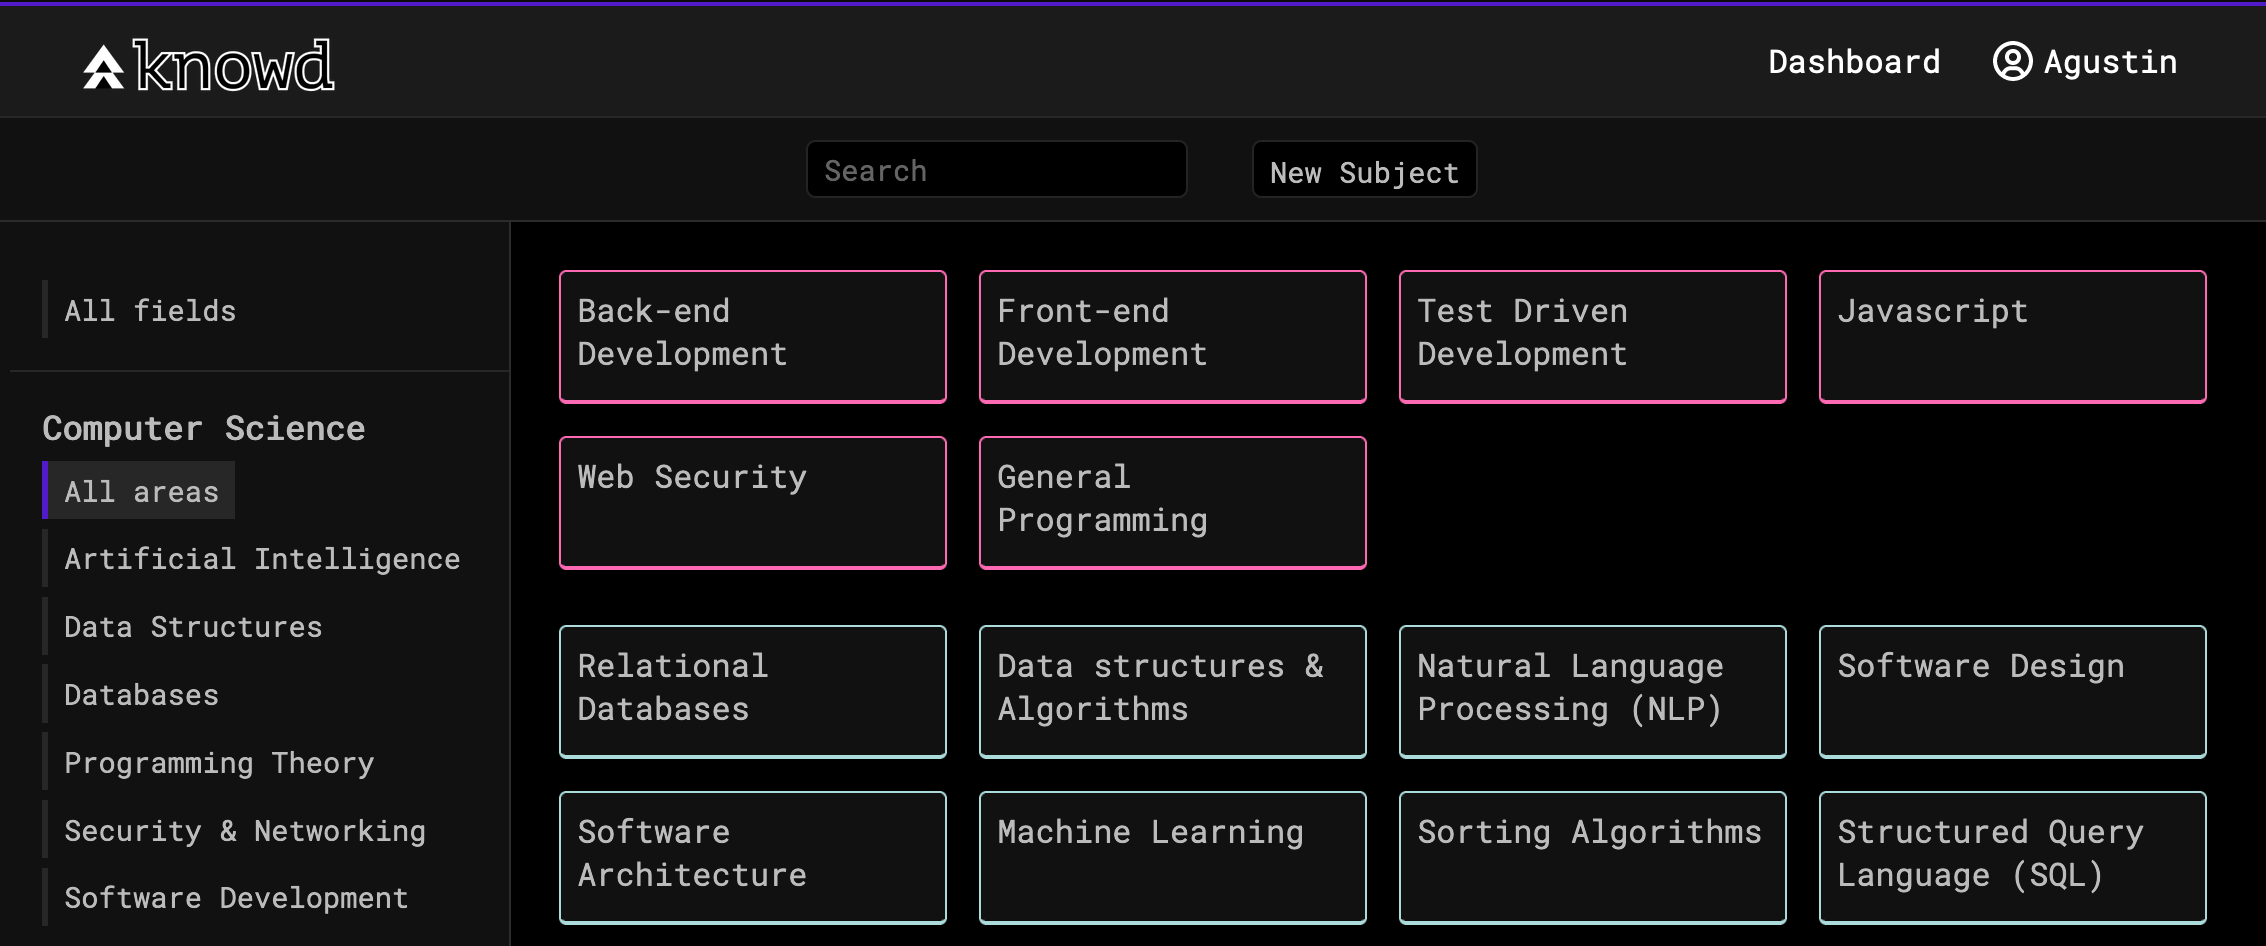
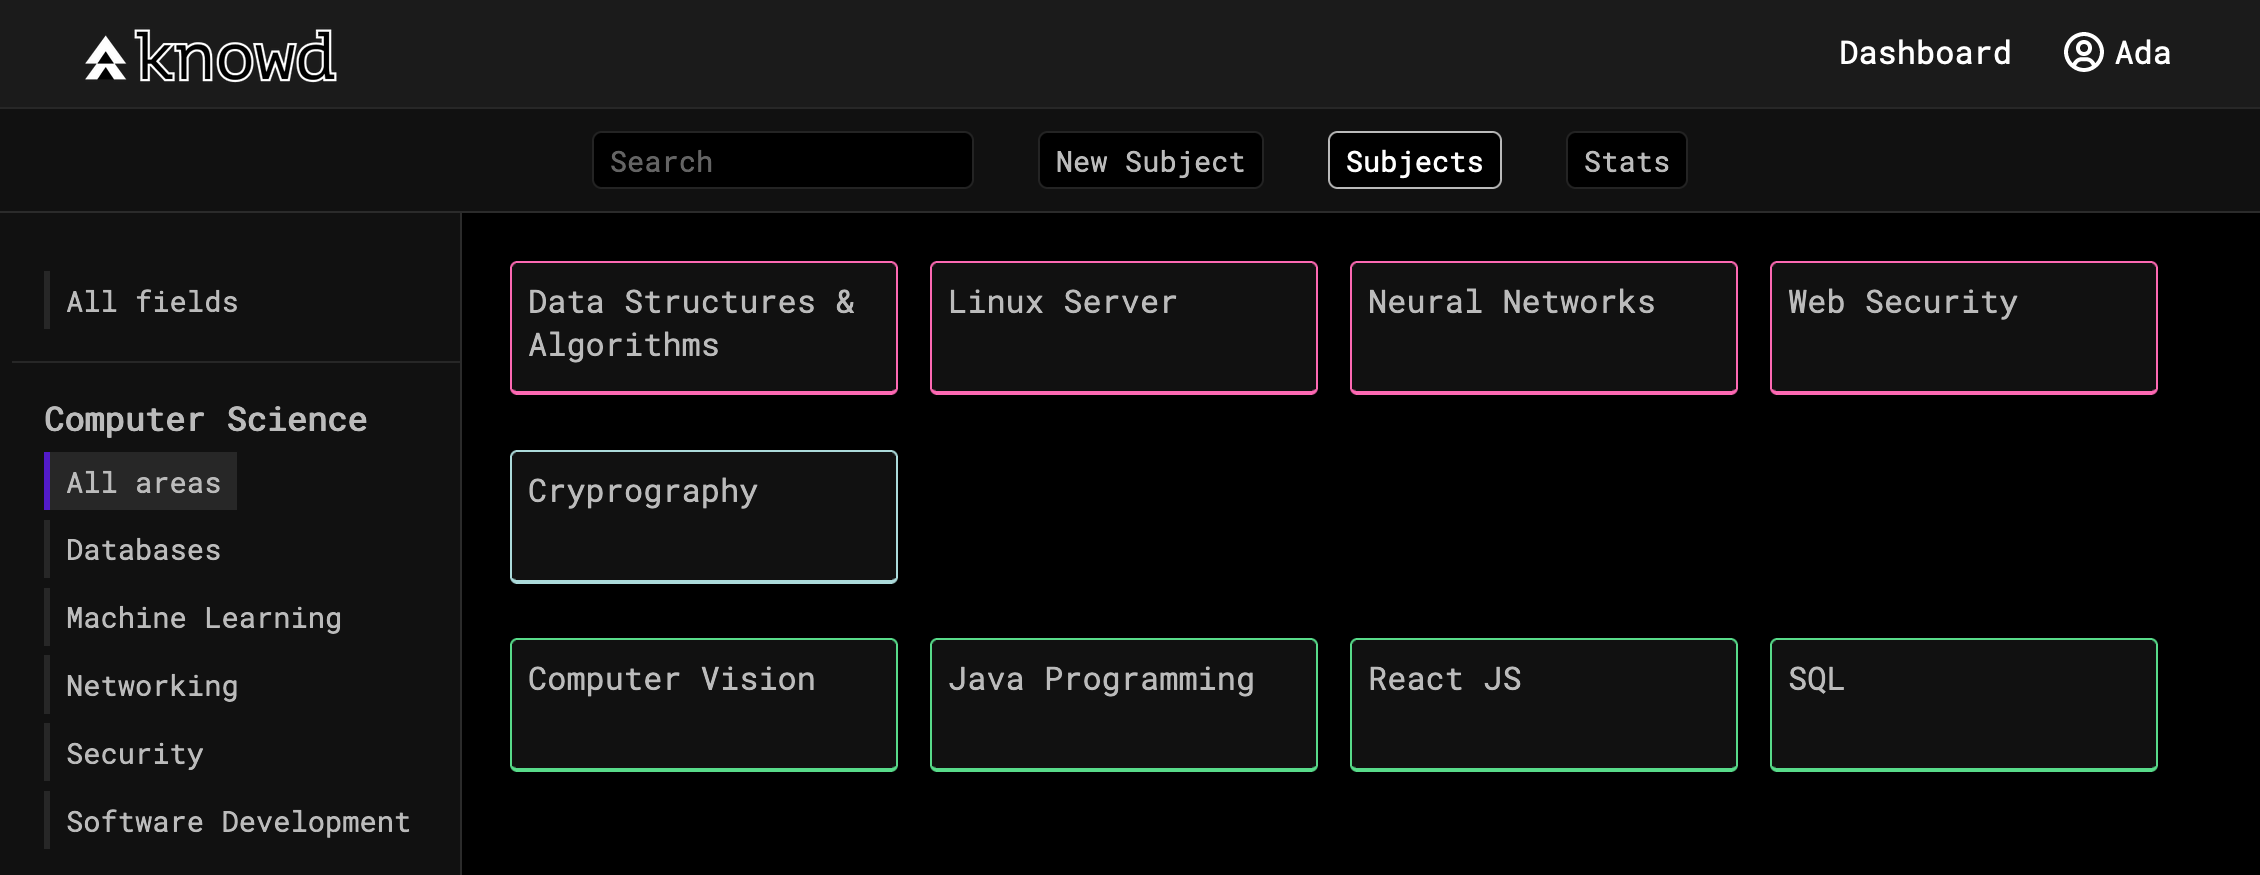
added charts

diff --git a/src/components/Dashboard/Stats.js b/src/components/Dashboard/Stats.js
@@ -1,4 +1,4 @@
-import { PieChart, Pie, LabelList, Cell } from 'recharts';
+import { PieChart, Pie, LabelList, Cell, RadarChart, PolarGrid, PolarAngleAxis, PolarRadiusAxis, Radar, Legend } from 'recharts';
 import styles from "../../styles/Stats.module.scss";
 
 const Stats = (props) => {
@@ -7,66 +7,52 @@ const Stats = (props) => {
 		const fa = a.value;
 		const fb = b.value;
 		
-		if (fa < fb) return -1;
-		else if (fa > fb) return 1;
+		if (fa < fb) return 1;
+		else if (fa > fb) return -1;
 		else return 0;
 	}
 
 	const statsByAllFields = [];
 	props.fields.forEach(fieldObject => {
-		const values = props.subjects.filter(subject => (subject.field === fieldObject.field && subject.status !== "Wish")).length;
-		values > 0 &&
-			statsByAllFields.push( {
-				name: fieldObject.field,
-				value: values
+		statsByAllFields.push( {
+			name: fieldObject.field,
+			valueL: props.subjects.filter(subject => subject.field === fieldObject.field && subject.status === "Learning").length,
+			valueM: props.subjects.filter(subject => subject.field === fieldObject.field && subject.status === "Mastered").length,
+			valueW: props.subjects.filter(subject => subject.field === fieldObject.field && subject.status === "Wish").length
 			})
-	})
+	});
+
 	const sortedStatsByAllFields = statsByAllFields.sort(sortByHighestValue);
 
-	const COLORS = ['#8B0000', '#228B22', '#FFA500', '#40E0D0', '#FFFF00', '#DC143C', '#8B4513', '#DA70D6', '#00BFFF', '#F0E68C', '#32CD32', '#008080', '#7B68EE', '#9932CC', '#DEB887', '#800000', '#4B0082', '#00BFFF', '#808000', '#FF7F50', '#3CB371' ];
+	const COLORS = ['#E20000', '#228B22', '#FFA500', '#40E0D0', '#FFFF00', '#DC143C', '#8B4513', '#DA70D6', '#00BFFF', '#F0E68C', '#32CD32', '#008080', '#7B68EE', '#9932CC', '#DEB887', '#800000', '#4B0082', '#00BFFF', '#808000', '#FF7F50', '#3CB371' ];
 
 	const statsByAreas = [];
-	props.fields.forEach(fieldObject => {
-		const data = fieldObject.areas.map(area => ({
-			name: area.area,
-			value: props.subjects.filter(subject => subject.area === area.area).length
-		}));
-
-		statsByAreas.push({field: fieldObject.field, fieldId: fieldObject.fieldId, data: data});
+	props.fields.filter(fieldObject => fieldObject.areas.length > 2)
+		.forEach(fieldObject => {
+			const data = fieldObject.areas.map(area => ({
+				name: area.area,
+				value: props.subjects.filter(subject => subject.area === area.area && subject.status !== "Wish").length
+			}));
+			const filteredData = data.filter(item => item.value > 0);
+			statsByAreas.push({
+				field: fieldObject.field, 
+				fieldId: fieldObject.fieldId, 
+				data: filteredData});
 	});
 	const sortedStatsByAreas = statsByAreas.sort(sortByHighestValue);
 	const mappedSortedStatsByAreas = sortedStatsByAreas.map(fieldObject =>
 		<div className={styles.statsBigBox} key={fieldObject.fieldId}>
 			<h2>{fieldObject.field}</h2>
 			<p>by learning/mastered subjects</p>
-			<PieChart width={450} height={300}>
-				<Pie
-					data={fieldObject.data}
-					innerRadius={60}
-					outerRadius={110}
-					dataKey="value"
-					label="top"
-				>
-				</Pie>
-			</PieChart>
-		</div>
-	);	
 		
-	
-	return (
-		<main className={styles.statsContainer}>
-			<div className={styles.statsBigBox}>
-
-				<h2>All Fields</h2>
-				<p>by learning/mastered subjects</p>
-					<PieChart width={450} height={300}>
+			<PieChart width={450} height={300}>
 						<Pie
-							data={sortedStatsByAllFields}
-							innerRadius={60}
-							outerRadius={110}
+							data={fieldObject.data}
+							innerRadius={50}
+							outerRadius={90}
 							dataKey="value"
 						>
-							{sortedStatsByAllFields.map((entry, index) => (
+							{fieldObject.data.map((entry, index) => (
 								<Cell 
 									key={`cell-${index}`} 
 									fill={COLORS[index % COLORS.length]}
@@ -79,21 +65,72 @@ const Stats = (props) => {
 								fill="black"
 								fontWeight="900"
 								fontFamily="'Roboto Mono', monospace" 
-								fontSize="1rem"								
+								fontSize="1.2rem"								
 							/>
-							<LabelList 
+							{/* <LabelList 
 								dataKey="name" 
 								position="outside" 
 								fill="white" 	
 								fontFamily="'Roboto Mono', monospace"
-								fontSize="1rem"								
-							/>
+								fontSize="0.7rem"								
+							/> */}
 						</Pie>
+						<Legend 
+							align="center"
+							iconSize="12"
+							iconType="circle"
+							
+						/>
 					</PieChart>
-						
-				</div>
+		</div>
+	);	
+		
+	
+	return (
+		<main className={styles.statsContainer}>
 
-				{mappedSortedStatsByAreas}
+			{props.fields.length > 2 &&
+				<div className={styles.statsBigBox}>
+					<h2>All Fields</h2>
+					<p>by subject count</p>
+					<RadarChart width={450} height={300}
+						cx="50%" cy="45%" 
+						outerRadius="80%" 
+						data={sortedStatsByAllFields}
+						fill="white" 	
+						fontFamily="'Roboto Mono', monospace"
+						fontSize="0.7rem">
+						<PolarGrid />
+						<PolarAngleAxis 
+							dataKey="name"
+						/>
+						<Radar name="Mastered" 
+							dataKey="valueM"
+							stroke="#51dd87" 
+							fill="#51dd87" 
+							fillOpacity={0.5}/> 
+						<Radar name="Learning" 
+							dataKey="valueL" 
+							stroke="#ff66b3" 
+							fill="#ff66b3" 
+							fillOpacity={0.5} />
+						<Radar name="Wish" 
+							dataKey="valueW" 
+							stroke="#abdbdb" 
+							fill="#abdbdb" 
+							fillOpacity={0.5} />
+						<Legend 
+							align="center"
+							iconSize="12"
+							iconType="circle"
+							fontFamily="'Roboto Mono', monospace"
+							fontSize="0.7rem"
+						/>
+					</RadarChart>
+				</div>
+			}
+
+			{mappedSortedStatsByAreas}
 
 		</main>
 	)

diff --git a/src/components/Home/About.js b/src/components/Home/About.js
@@ -16,10 +16,10 @@ const About = () => {
 				<img src="screen1.png" alt="screen sample" />
 			</div>
 
-			<h3 className={styles.imagesCaptions}>Check your learning profile and subjects' relations:</h3>
+			<h3 className={styles.imagesCaptions}>Review your learning profile and statistics:</h3>
 			<div className={styles.smallImagesContainer}>
 				<img src="screen2.png" alt="screen sample" />
-				<img src="screen2.png" alt="screen sample" />
+				<img src="screen3.png" alt="screen sample" />
 			</div>
 		</main>
 	);

diff --git a/src/components/Dashboard/Toolbar.js b/src/components/Dashboard/Toolbar.js
@@ -51,9 +51,11 @@ const Toolbar = (props) => {
 					</li>
 
 					<li>
-						{props.statsWindowIsOpen ? 
+						{props.fields.length !== 0 ?
+							props.statsWindowIsOpen ? 
 							<button onClick={handleStatsWindowButton} className={styles.activeButton}>Stats</button> :
-							<button onClick={handleStatsWindowButton}>Stats</button>
+							<button onClick={handleStatsWindowButton}>Stats</button> :
+							<button className={styles.disabledButton} disabled>Stats</button>
 						}
 					</li>
 

diff --git a/src/components/Dashboard/Subjects.js b/src/components/Dashboard/Subjects.js
@@ -116,6 +116,7 @@ const Subjects = (props) => {
 			needsAttention={subject.needsAttention}
 			dueDate={subject.dueDate}
 			relations={subject.relations}
+			subjects={props.subjects}
 			setSubjects={props.setSubjects}
 			setNetworkErrorNotification={props.setNetworkErrorNotification}
 			setSuccessNotification={props.setSuccessNotification}

diff --git a/src/pages/Dashboard.js b/src/pages/Dashboard.js
@@ -128,7 +128,9 @@ const Dashboard = () => {
 				setNewSubjectsWindowIsOpen={setNewSubjectsWindowIsOpen}
 				searchTerm={searchTerm}
 				setSearchTerm={setSearchTerm}
+                fields={fields}
 			/>
+            {console.log(fields)}
             
             {subjectsWindowIsOpen &&
             <Subjects 
